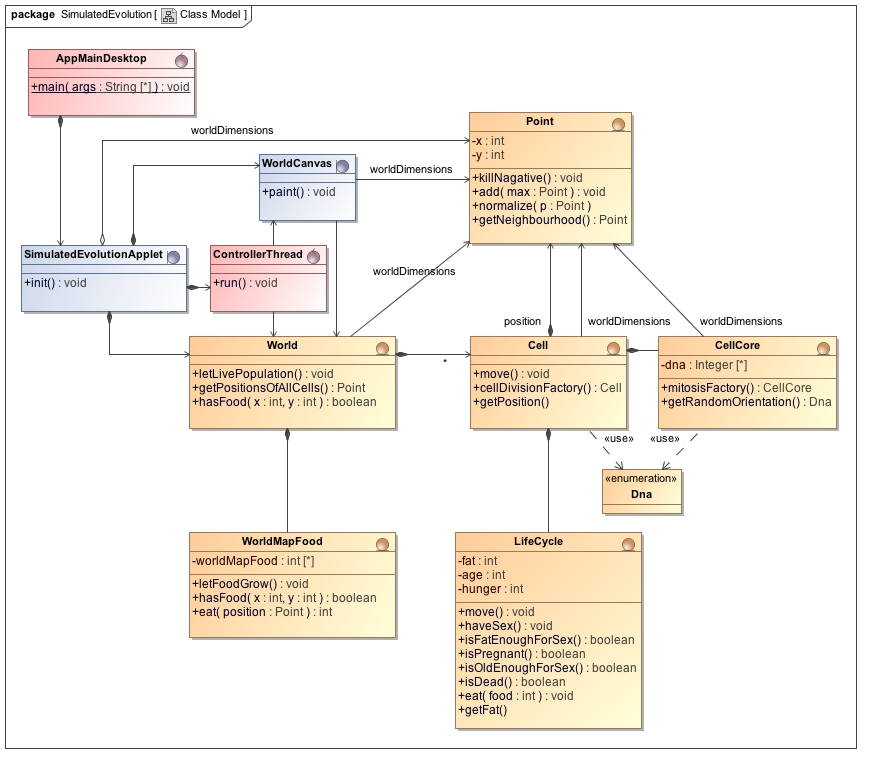
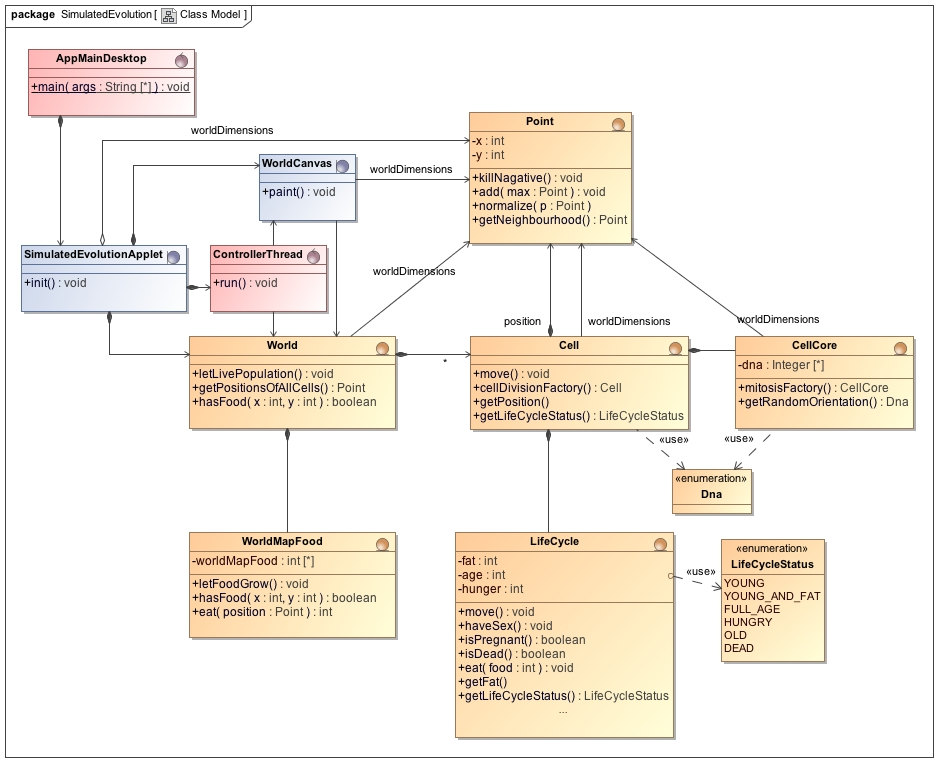
fixed #6 add Garden of Eden

Changed region(s): [[0.0, 0.0, 0.992, 0.9948], [0.0, 0.9646, 0.031, 0.9948]]

diff --git a/src/main/java/org/woehlke/simulation/evolution/model/LifeCycle.java b/src/main/java/org/woehlke/simulation/evolution/model/LifeCycle.java
@@ -15,9 +15,11 @@ public class LifeCycle {
     private final int MAX_FAT = 2000;
     private final int MAX_HUNGER = 1000;
     private final int FULL_AGE = 200;
-    private final int FAT_MINIMUM_FOR_PREGNANCY = 800;
+    private final int FAT_MINIMUM_FOR_SEX = 800;
     private final int FAT_AT_BIRTH = 500;
     private final int FAT_PER_FOOD = 25;
+    private final int OLD_AGE = 800;
+    private final int MAX_AGE = 1000;
 
     public LifeCycle() {
         hunger = 0;
@@ -47,20 +49,12 @@ public class LifeCycle {
         age = 0;
     }
 
-    public boolean isFatEnoughForSex() {
-        return fat >= FAT_MINIMUM_FOR_PREGNANCY;
-    }
-
     public boolean isPregnant() {
-        return isOldEnoughForSex() && isFatEnoughForSex();
-    }
-
-    public boolean isOldEnoughForSex() {
-        return age >= FULL_AGE;
+        return (age >= FULL_AGE) && (fat >= FAT_MINIMUM_FOR_SEX);
     }
 
     public boolean isDead() {
-        return hunger >= MAX_HUNGER;
+        return (hunger >= MAX_HUNGER) || (age >= MAX_AGE);
     }
 
     public void eat(int food) {
@@ -73,5 +67,28 @@ public class LifeCycle {
 
     public int getFat() {
         return fat;
+    }
+
+    public LifeCycleStatus getLifeCycleStatus(){
+        if(fat==0 && hunger>=0){
+            return LifeCycleStatus.HUNGRY;
+        }
+        if(age<FULL_AGE){
+            if(fat< FAT_MINIMUM_FOR_SEX){
+                return LifeCycleStatus.YOUNG;
+            } else {
+                return LifeCycleStatus.YOUNG_AND_FAT;
+            }
+        } else {
+            if (age<OLD_AGE) {
+                return LifeCycleStatus.FULL_AGE;
+            } else {
+                if (age < MAX_AGE) {
+                    return LifeCycleStatus.OLD;
+                } else {
+                    return LifeCycleStatus.DEAD;
+                }
+            }
+        }
     }
 }

diff --git a/src/main/java/org/woehlke/simulation/evolution/model/WorldMapFood.java b/src/main/java/org/woehlke/simulation/evolution/model/WorldMapFood.java
@@ -15,6 +15,7 @@ public class WorldMapFood {
     private int worldMapFood[][];
     private Random random;
     private final int FOOD_PER_DAY = 10;
+    private final boolean EABLE_GARDEN_OF_EDEN = true;
     private Point dimensions;
 
     public WorldMapFood(Point dimensions,Random random){
@@ -36,6 +37,23 @@ public class WorldMapFood {
                 y *= -1;
             }
             worldMapFood[x][y]++;
+        }
+        if(EABLE_GARDEN_OF_EDEN){
+            f = 0;
+            int startx = this.dimensions.getX() / 5;
+            int starty = this.dimensions.getY() / 5;
+            while (f < FOOD_PER_DAY*4) {
+                f++;
+                int x = random.nextInt(startx);
+                int y = random.nextInt(starty);
+                if (x < 0) {
+                    x *= -1;
+                }
+                if (y < 0) {
+                    y *= -1;
+                }
+                worldMapFood[x+startx*2][y+starty*2]++;
+            }
         }
     }
 

diff --git a/src/main/java/org/woehlke/simulation/evolution/view/WorldCanvas.java b/src/main/java/org/woehlke/simulation/evolution/view/WorldCanvas.java
@@ -21,7 +21,6 @@ public class WorldCanvas extends Canvas {
 
     private final Color WATER = Color.BLACK;
     private final Color FOOD = Color.GREEN;
-    private final Color BAZILLUS = Color.RED;
 
     public WorldCanvas(Point worldDimensions) {
         this.worldDimensions = worldDimensions;
@@ -41,10 +40,10 @@ public class WorldCanvas extends Canvas {
                 }
             }
         }
-        g.setColor(BAZILLUS);
-        List<Point> population = world.getPositionsOfAllCells();
-        for (Point p:population) {
-            Point[] square = p.getNeighbourhood(worldDimensions);
+        List<Cell> population = world.getAllCells();
+        for (Cell p:population) {
+            Point[] square = p.getPosition().getNeighbourhood(worldDimensions);
+            g.setColor(p.getLifeCycleStatus().getColor());
             for(Point pixel:square){
                 g.drawLine(pixel.getX(), pixel.getY(), pixel.getX(), pixel.getY());
             }

diff --git a/src/main/java/org/woehlke/simulation/evolution/model/LifeCycleStatus.java b/src/main/java/org/woehlke/simulation/evolution/model/LifeCycleStatus.java
@@ -1,0 +1,30 @@
+package org.woehlke.simulation.evolution.model;
+
+import java.awt.*;
+
+/**
+ * Created with IntelliJ IDEA.
+ * User: tw
+ * Date: 25.08.13
+ * Time: 12:40
+ * To change this template use File | Settings | File Templates.
+ */
+public enum LifeCycleStatus {
+
+    YOUNG(Color.BLUE),
+    YOUNG_AND_FAT(Color.YELLOW),
+    FULL_AGE(Color.RED),
+    HUNGRY(Color.LIGHT_GRAY),
+    OLD(Color.DARK_GRAY),
+    DEAD(Color.BLACK);
+
+    private Color color;
+
+    private LifeCycleStatus(Color color){
+        this.color=color;
+    }
+
+    public Color getColor(){
+        return color;
+    }
+}

diff --git a/src/main/java/org/woehlke/simulation/evolution/model/World.java b/src/main/java/org/woehlke/simulation/evolution/model/World.java
@@ -73,13 +73,8 @@ public class World {
 
     }
 
-    public List<Point> getPositionsOfAllCells(){
-        List<Point> positions = new ArrayList<Point>();
-        for (Cell cell:cells) {
-            Point p = cell.getPosition();
-            positions.add(p);
-        }
-        return positions;
+    public List<Cell> getAllCells(){
+        return cells;
     }
 
     public boolean hasFood(int x, int y) {

diff --git a/src/main/java/org/woehlke/simulation/evolution/view/SimulatedEvolutionApplet.java b/src/main/java/org/woehlke/simulation/evolution/view/SimulatedEvolutionApplet.java
@@ -19,7 +19,7 @@ import java.io.Serializable;
  */
 public class SimulatedEvolutionApplet extends Applet implements ImageObserver, MenuContainer, Serializable, Accessible {
 
-    private Label title = new Label("SimGen");
+    private Label title = new Label("Simulated Evolution");
     private ControllerThread controllerThread;
     private WorldCanvas canvas;
     private World world;

diff --git a/src/main/java/org/woehlke/simulation/evolution/view/AppMainFrame.java b/src/main/java/org/woehlke/simulation/evolution/view/AppMainFrame.java
@@ -23,7 +23,7 @@ public class AppMainFrame extends Frame implements ImageObserver,
     private SimulatedEvolutionApplet exe;
 
     public AppMainFrame() {
-        super("SimGen");
+        super("Simulated Evolution");
         exe = new SimulatedEvolutionApplet();
         exe.init();
         add("Center", exe);

diff --git a/src/main/java/org/woehlke/simulation/evolution/model/Cell.java b/src/main/java/org/woehlke/simulation/evolution/model/Cell.java
@@ -111,4 +111,8 @@ public class Cell {
         return lifeCycle.isDead();
     }
 
+    public LifeCycleStatus getLifeCycleStatus(){
+        return lifeCycle.getLifeCycleStatus();
+    }
+
 }
